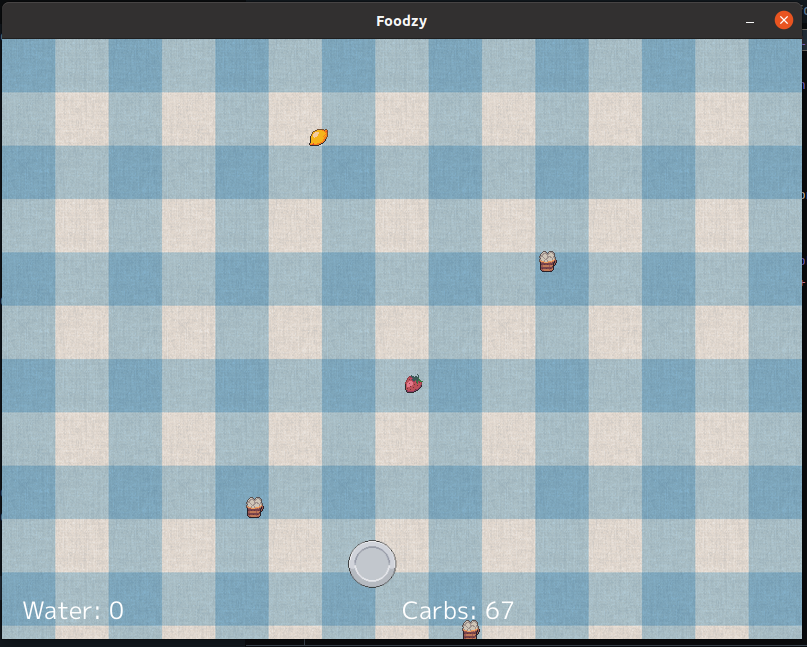
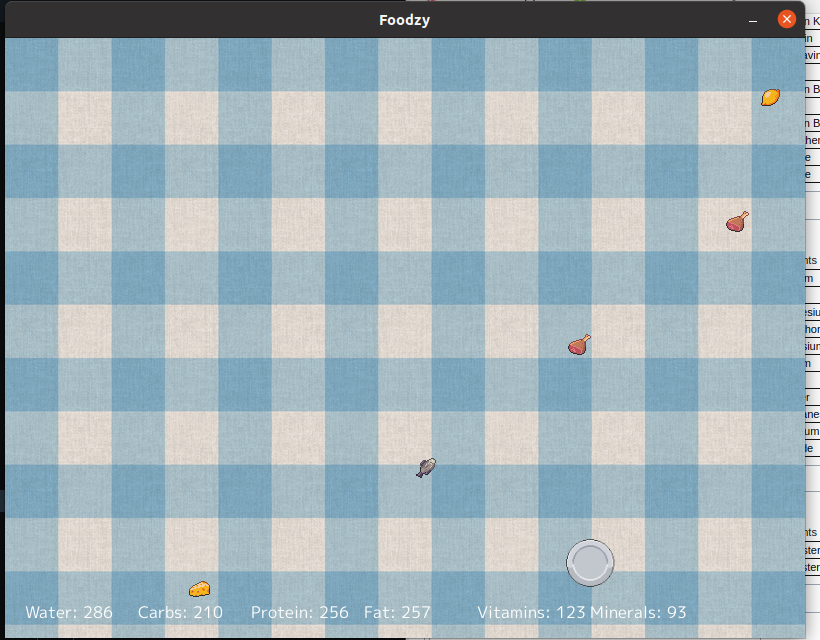
adds nutrient data from https://nutritiondata.self.com/facts/; adds counters

diff --git a/entities/food.go b/entities/food.go
@@ -14,25 +14,25 @@ type food struct {
 }
 
 var existingFoods = []food{
-	{name: "Bread", asset: assets.Bread, nutrient: components.Nutrient{Carbohydrates: 100}, toxic: components.Toxic{}},
-	{name: "Carrot", asset: assets.Carrot, nutrient: components.Nutrient{Vitamins: 123}, toxic: components.Toxic{}},
-	{name: "Beer", asset: assets.Beer, nutrient: components.Nutrient{Carbohydrates: 80}, toxic: components.Toxic{}},
-	{name: "Cheese", asset: assets.Cheese, nutrient: components.Nutrient{Fat: 20}, toxic: components.Toxic{}},
-	{name: "Fish", asset: assets.Fish, nutrient: components.Nutrient{Fat: 15}, toxic: components.Toxic{}},
-	{name: "Meat", asset: assets.Meat, nutrient: components.Nutrient{Fat: 20}, toxic: components.Toxic{}},
-	{name: "Lemon", asset: assets.Lemon, nutrient: components.Nutrient{Vitamins: 20}, toxic: components.Toxic{}},
-	{name: "Tomato", asset: assets.Tomato, nutrient: components.Nutrient{Vitamins: 10}, toxic: components.Toxic{}},
-	{name: "Strawberry", asset: assets.Strawberry, nutrient: components.Nutrient{Vitamins: 1}, toxic: components.Toxic{}},
+	{name: "Bread", asset: assets.Bread, nutrient: components.Nutrient{Carbohydrates: 15, Fat: 2, Protein: 2, Minerals: 4, Water: 1}, toxic: components.Toxic{}},
+	{name: "Carrot", asset: assets.Carrot, nutrient: components.Nutrient{Carbohydrates: 10, Protein: 1, Fat: 1, Water: 5}, toxic: components.Toxic{}},
+	{name: "Beer", asset: assets.Beer, nutrient: components.Nutrient{Carbohydrates: 2, Minerals: 5, Vitamins: 5, Water: 40}, toxic: components.Toxic{}},
+	{name: "Cheese", asset: assets.Cheese, nutrient: components.Nutrient{Carbohydrates: 1, Fat: 40, Vitamins: 1, Minerals: 5, Water: 6}, toxic: components.Toxic{}},
+	{name: "Fish", asset: assets.Fish, nutrient: components.Nutrient{Protein: 26, Fat: 12, Vitamins: 2, Minerals: 3, Water: 12}, toxic: components.Toxic{}},
+	{name: "Meat", asset: assets.Meat, nutrient: components.Nutrient{Protein: 19, Fat: 17, Minerals: 5, Water: 5}, toxic: components.Toxic{}},
+	{name: "Lemon", asset: assets.Lemon, nutrient: components.Nutrient{Carbohydrates: 21, Vitamins: 20, Minerals: 6, Water: 10}, toxic: components.Toxic{}},
+	{name: "Tomato", asset: assets.Tomato, nutrient: components.Nutrient{Carbohydrates: 10, Protein: 2, Vitamins: 5, Minerals: 5, Water: 4}, toxic: components.Toxic{}},
+	{name: "Strawberry", asset: assets.Strawberry, nutrient: components.Nutrient{Carbohydrates: 12, Protein: 1, Vitamins: 4, Minerals: 2, Water: 10}, toxic: components.Toxic{}},
 }
 
 func NewRandomFood(screenWidth int) Entity {
 
 	idx := rand.Intn(len(existingFoods))
-	food := existingFoods[idx]
+	f := existingFoods[idx]
 	posX := rand.Intn(screenWidth)
 	entity := Entity{Active: true}
 
-	sprite := components.NewSprite("food", food.asset)
+	sprite := components.NewSprite("food", f.asset)
 	spriteWidth, spriteHeight := sprite.Image.Size()
 
 	entity.AddComponent(sprite)
@@ -40,8 +40,8 @@ func NewRandomFood(screenWidth int) Entity {
 	entity.AddComponent(&components.Dimension{Width: float64(spriteWidth), Height: float64(spriteHeight)})
 	entity.AddComponent(&components.Velocity{X: 0, Y: 3})
 	entity.AddComponent(&components.Collision{})
-	entity.AddComponent(&food.nutrient)
-	entity.AddComponent(&food.toxic)
+	entity.AddComponent(&f.nutrient)
+	entity.AddComponent(&f.toxic)
 
 	return entity
 }

diff --git a/game.go b/game.go
@@ -36,6 +36,10 @@ func NewGame() *Game {
 
 	entityManager.AddEntity(entities.NewScore("Water", components.Nutrient{Water: 1}))
 	entityManager.AddEntity(entities.NewScore("Carbs", components.Nutrient{Carbohydrates: 1}))
+	entityManager.AddEntity(entities.NewScore("Protein", components.Nutrient{Protein: 1}))
+	entityManager.AddEntity(entities.NewScore("Fat", components.Nutrient{Fat: 1}))
+	entityManager.AddEntity(entities.NewScore("Vitamins", components.Nutrient{Vitamins: 1}))
+	entityManager.AddEntity(entities.NewScore("Minerals", components.Nutrient{Minerals: 1}))
 
 	return &Game{
 		entityManager:    &entityManager,

diff --git a/systems/collision.go b/systems/collision.go
@@ -60,9 +60,6 @@ func (c *CollisionSystem) Update() error {
 			playerNutrients.Minerals += entityNutrients.Minerals
 			playerNutrients.Protein += entityNutrients.Protein
 			playerNutrients.Vitamins += entityNutrients.Vitamins
-
-			fmt.Printf("COLLISSSION: %v\n", playerNutrients)
-
 		}
 	}
 

diff --git a/systems/score.go b/systems/score.go
@@ -28,7 +28,7 @@ func NewScoreSystem(manager *entities.Manager, width int, height int) *ScoreSyst
 	}
 
 	font, err := opentype.NewFace(tt, &opentype.FaceOptions{
-		Size:    24,
+		Size:    16,
 		DPI:     72,
 		Hinting: font.HintingFull,
 	})
